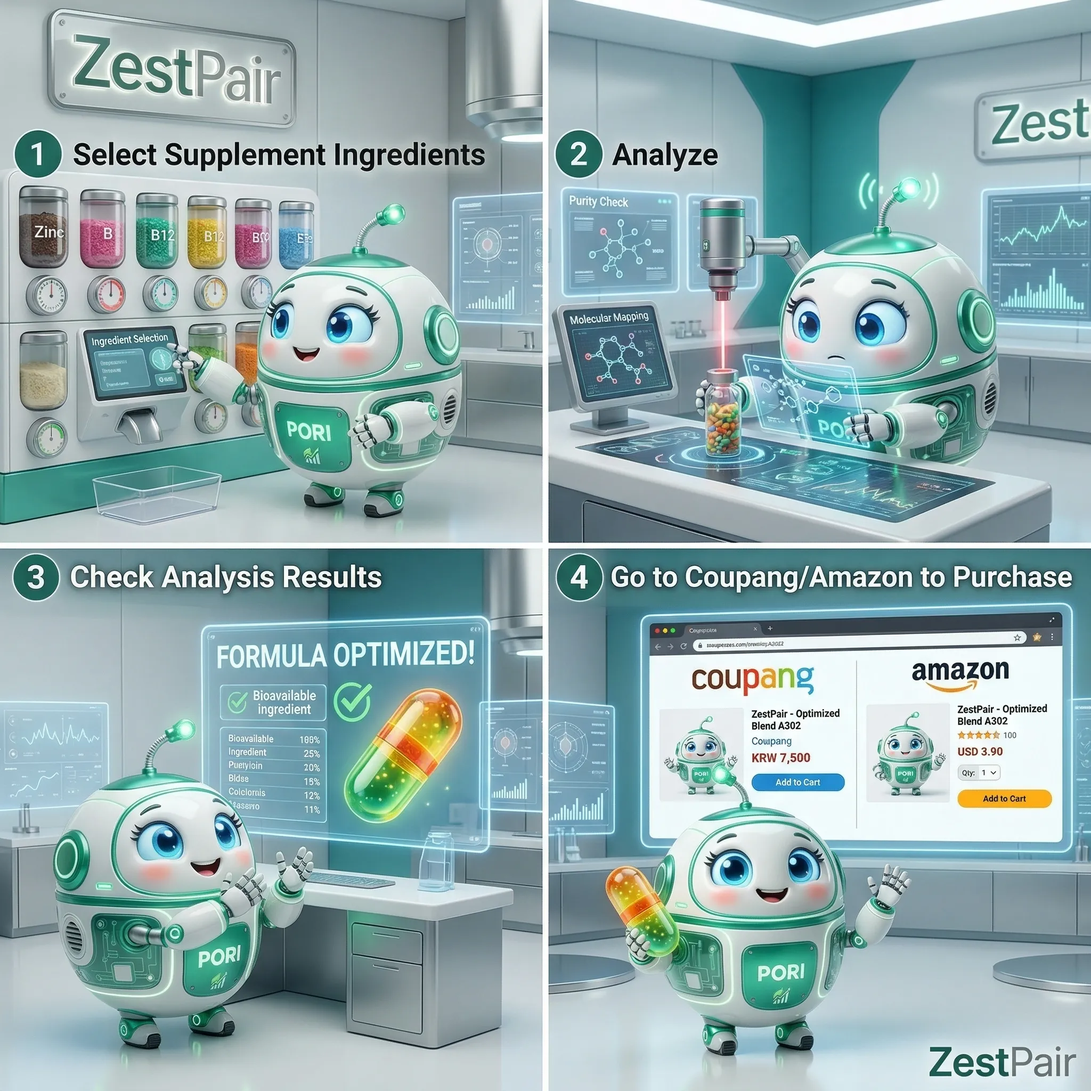
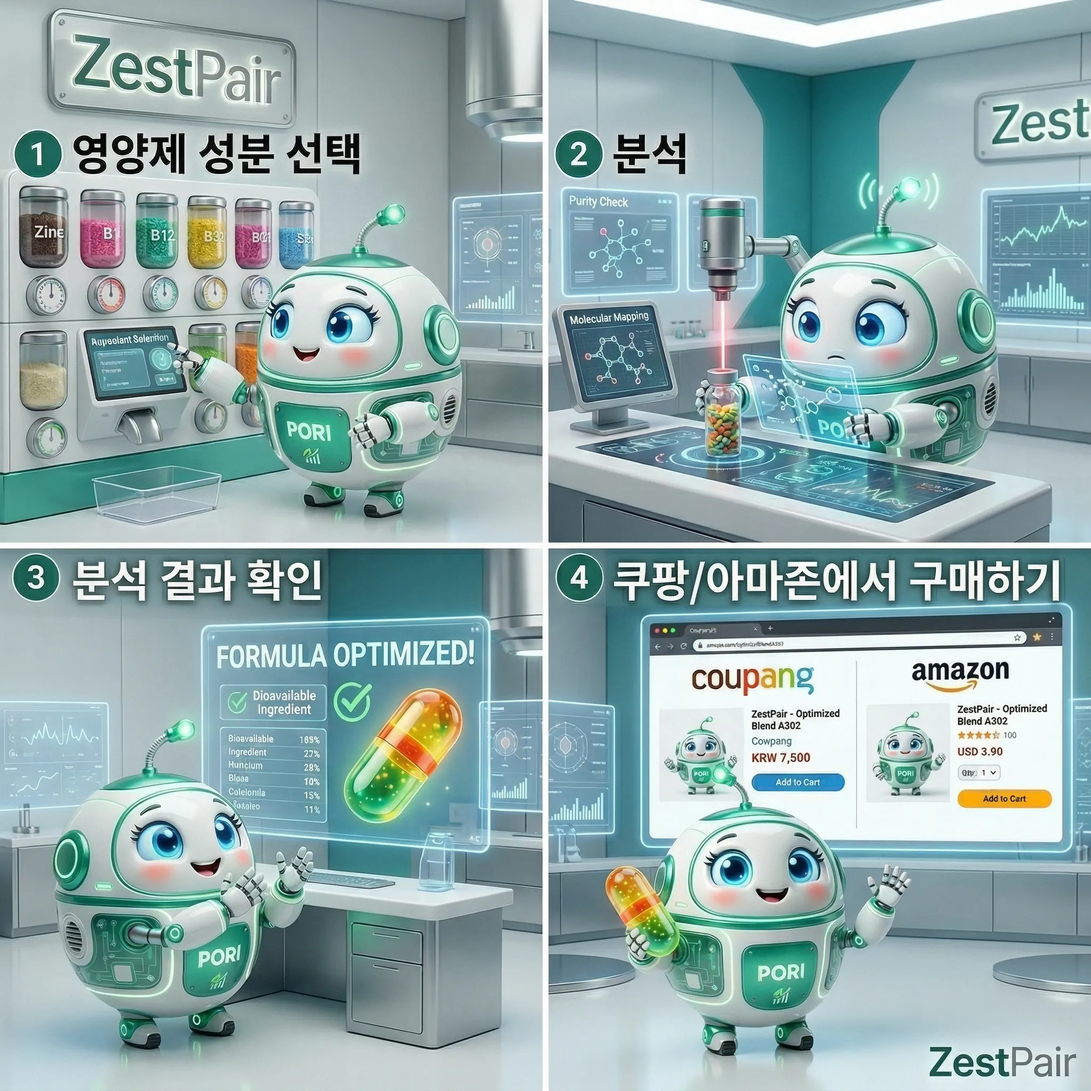
가이드보기 추가

diff --git a/src/app/page.tsx b/src/app/page.tsx
@@ -82,6 +82,7 @@ export default function HomePage() {
   const [searchQuery, setSearchQuery] = useState("");
   const [selectedCategory, setSelectedCategory] = useState<string>("all");
   const [showAllPopular, setShowAllPopular] = useState(false);
+  const [isGuideOpen, setIsGuideOpen] = useState(false);
 
   const [dbIngredients, setDbIngredients] = useState<Ingredient[]>([]);
   const [isLoadingList, setIsLoadingList] = useState(true);
@@ -278,12 +279,21 @@ export default function HomePage() {
             <span className="tracking-widest uppercase mr-1">{language === "ko" ? "EN" : "KO"}</span>
           </button>
 
-          <Link
-            href="/about"
-            className="flex items-center gap-2 px-4 py-1.5 rounded-full bg-white/5 border border-white/10 backdrop-blur-xl text-white/70 font-black text-[10px] transition-all hover:bg-white/20 hover:text-white active:scale-95 shadow-lg pointer-events-auto"
-          >
-            <span>{language === 'ko' ? '서비스 소개' : 'About'}</span>
-          </Link>
+          <div className="flex items-center gap-2 lg:gap-3 pointer-events-auto">
+            <button
+              onClick={() => setIsGuideOpen(true)}
+              className="flex items-center gap-1.5 px-4 py-1.5 rounded-full bg-emerald-500/10 border border-emerald-500/20 backdrop-blur-xl text-emerald-400 font-black text-[10px] transition-all hover:bg-emerald-500/20 hover:text-emerald-300 hover:scale-105 active:scale-95 shadow-lg relative group/guide overflow-hidden"
+            >
+              <div className="absolute inset-0 bg-gradient-to-r from-transparent via-emerald-400/10 to-transparent -translate-x-[150%] group-hover/guide:translate-x-[150%] transition-transform duration-1000 ease-in-out" />
+              <span>{language === 'ko' ? '가이드보기' : 'Guide'}</span>
+            </button>
+            <Link
+              href="/about"
+              className="flex items-center gap-2 px-4 py-1.5 rounded-full bg-white/5 border border-white/10 backdrop-blur-xl text-white/70 font-black text-[10px] transition-all hover:bg-white/20 hover:text-white active:scale-95 shadow-lg"
+            >
+              <span>{language === 'ko' ? '서비스 소개' : 'About'}</span>
+            </Link>
+          </div>
         </div>
 
         <div className="relative mx-auto max-w-3xl px-4 text-center mt-6 md:mt-4">
@@ -1151,6 +1161,49 @@ export default function HomePage() {
       />
 
       <FloatingAssistant />
+
+      {/* 가이드 팝업 */}
+      <AnimatePresence>
+        {isGuideOpen && (
+          <motion.div
+            initial={{ opacity: 0 }}
+            animate={{ opacity: 1 }}
+            exit={{ opacity: 0 }}
+            className="fixed inset-0 z-[9999] flex items-center justify-center p-4 sm:p-6"
+          >
+            {/* 어두운 배경 (클릭 시 닫힘) */}
+            <div 
+              className="absolute inset-0 bg-slate-950/80 backdrop-blur-md cursor-pointer"
+              onClick={() => setIsGuideOpen(false)}
+            />
+
+            <motion.div
+              initial={{ scale: 0.95, y: 20, opacity: 0 }}
+              animate={{ scale: 1, y: 0, opacity: 1 }}
+              exit={{ scale: 0.95, y: 10, opacity: 0 }}
+              transition={{ type: "spring", damping: 25, stiffness: 300 }}
+              className="relative w-auto h-auto max-w-5xl max-h-[90vh] bg-transparent rounded-2xl md:rounded-[2rem] overflow-hidden shadow-2xl flex flex-col pointer-events-auto"
+            >
+              {/* 닫기 버튼 */}
+              <button
+                onClick={() => setIsGuideOpen(false)}
+                className="absolute top-4 right-4 md:top-6 md:right-6 z-10 w-10 h-10 flex items-center justify-center rounded-full bg-black/40 text-white/70 hover:text-white hover:bg-black/60 backdrop-blur-sm border border-white/10 transition-all hover:scale-110 active:scale-95 shadow-xl"
+              >
+                <X size={20} />
+              </button>
+              
+              {/* 이미지 영역 (스크롤 가능) */}
+              <div className="overflow-y-auto scrollbar-hide flex-1">
+                <img
+                  src={language === 'ko' ? '/hero-illustration-guide.webp' : '/hero-illustration-guide-en.webp'}
+                  alt="ZestPair Using Guide"
+                  className="w-auto h-auto max-w-full max-h-[90vh] object-contain block leading-none"
+                />
+              </div>
+            </motion.div>
+          </motion.div>
+        )}
+      </AnimatePresence>
     </div>
   );
 }
